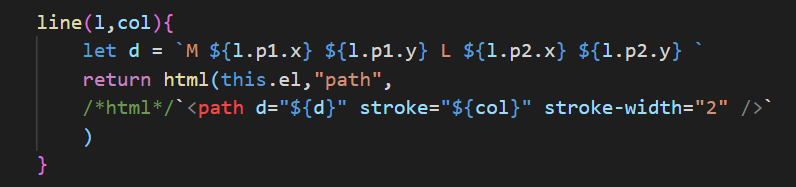
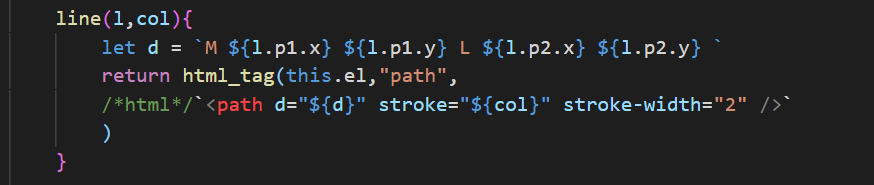
updated doc

diff --git a/README.md b/README.md
@@ -10,14 +10,21 @@ import {html,css,suid} from "./web-js-utils.js"
 ```
 
 # 2.0.0
-- no tagName required on the `html()` and `temp()` functions
-- backward compatibility for some cases (SVG context) kept with `html_tag()` the difference is that `html()` is now simpler to use (no tagName redundancy) but does not set a context node bound to a tagName. More about the internally used function `createContextualFragment()` [here](https://developer.mozilla.org/en-US/docs/Web/API/Range/createContextualFragment).
+- non compatible function with 1.0.0 : `html()`
+- change required for `html()`, remove tagName parameter but not supported by svg elements
+- to keep backward compatibility for svg elements : rename `html()` to `html_tag()`
 - renamed entry to `index.js`
 
-# 1.0.0
+# Functions
 ## html()
-the `html()` function is extreamely simple yet powerful, especially when combined with a VS.Code plugin such as [es6-string-html](https://marketplace.visualstudio.com/items?itemName=Tobermory.es6-string-html)
+- the `html()` function is extreamely simple yet powerful, especially when combined with a VS.Code plugin such as [es6-string-html](https://marketplace.visualstudio.com/items?itemName=Tobermory.es6-string-html)
+- 2.0.0 update : the difference is that `html()` is now simpler to use (no tagName redundancy) but does not set a context node bound to a tagName. More about the internally used function `createContextualFragment()` [here](https://developer.mozilla.org/en-US/docs/Web/API/Range/createContextualFragment).
+- example usage below creating a list of bootstrap columns
 
+<img src="./media/html_usage.png" width=800>
+
+## html_tag()
+* can be used inside an svg element
 * the example below takes an edge consisting of two points and and a color, returns an SVG path element
 
 <img src="./media/svg_path.png" width="600">
